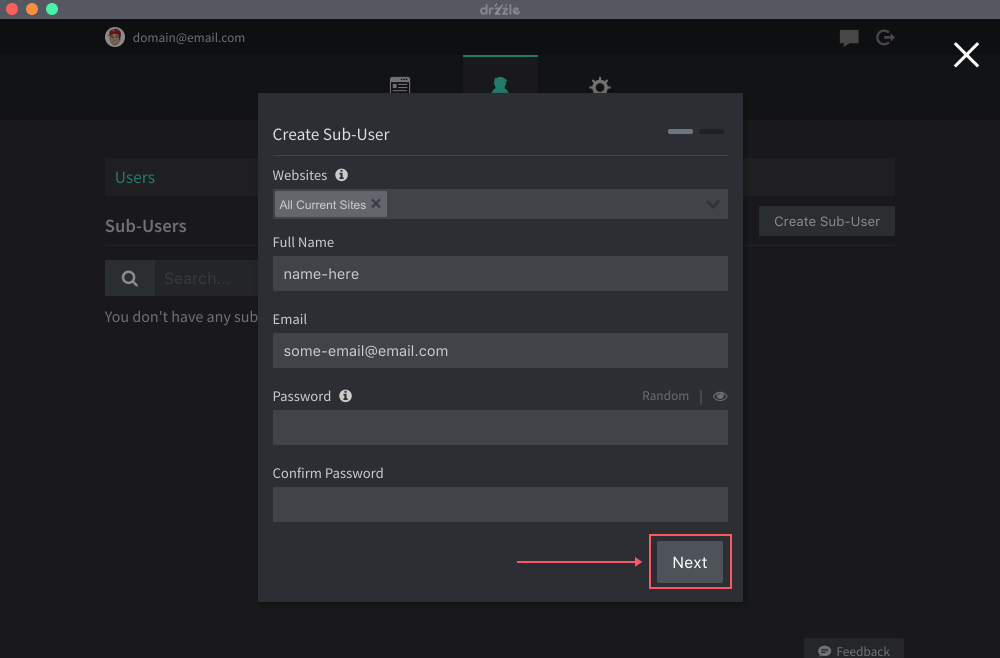
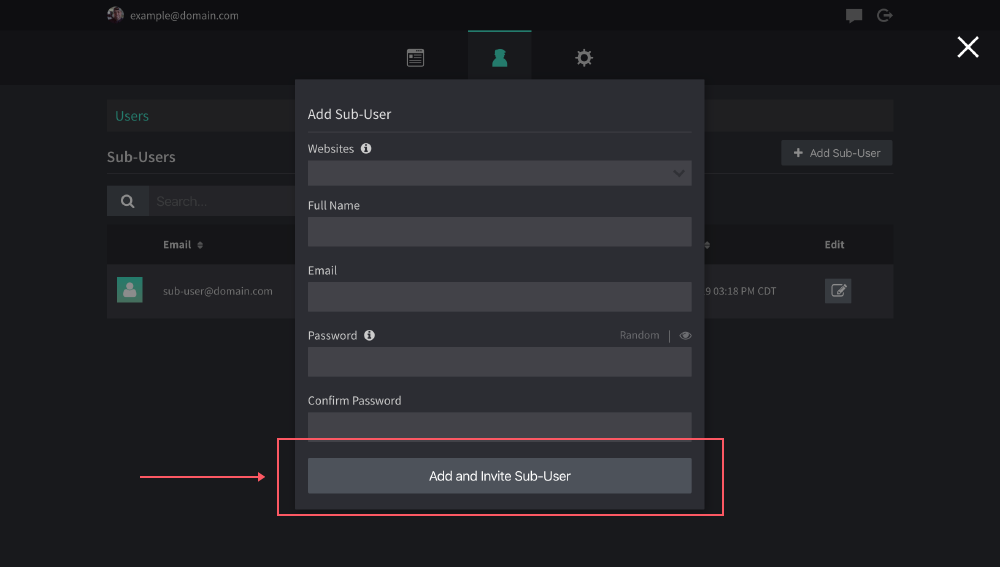
adding new docs for new features

diff --git a/docs/.vuepress/config.js b/docs/.vuepress/config.js
@@ -77,7 +77,7 @@ module.exports = {
       },
       {
         title: "Global Options",
-        children: ["/global/sitemap/", "/global/favicon/", "/global/fonts/"]
+        children: ["/global/sitemap/", "/global/favicon/", "/global/fonts/", "/global/colors/"]
       },
       {
         title: "Developers",

diff --git a/docs/websites/adding/README.md b/docs/websites/adding/README.md
@@ -12,13 +12,18 @@ Users are not limited to the amount of websites they can add. Adding a new websi
 
 ![Adding site step 3](./adding-site-step-2.png)
 
-4.  Select a boilerplate to start from them hit "next". The example only has 1 but there should be more options to choose from.
+4. Select the plan option for this site (free, starter or premium). You can read of the differences <a class="prev" href="https://drzzle.app/pricing/">here</a>.
 
 ![Adding site step 4](./adding-site-step-3.png)
 
-5.  Finally, you will see a confirmation message before you agree to proceed. The message will depend on if there is an additional charge or not. Your first site will always be free.
+5.  Select a boilerplate to start from then hit "next".
 
 ![Adding site step 5](./adding-site-step-4.png)
+
+6.  Finally, you will see a confirmation message before you agree to proceed. The message will depend on if there is an additional charge or not.
+
+![Adding site step 6](./adding-site-step-5.png)
+
 
 After this, you should launch right into the site's settings view. From there you can edit basic global settings and you can also launch the drag and drop site editor.
 

diff --git a/docs/sub-users/README.md b/docs/sub-users/README.md
@@ -2,8 +2,7 @@
 
 All account owners have the option to add additional sub-users under their account. The owner can pick
 and choose what website's to give these sub-users edit permissions to. They work great for delegating content
-editing to other people.
+editing to other people. Only website's using the premium plan are available to sub-users.
 
-When a sub-user logs in, they will only see the website's the owner has allowed them to edit. They will also have
-limited permissions for those website's. They will not be able to purchase anything for their website's, add new
-ones or delete them. They should only be allowed to edit _content_.
+When a sub-user logs in, they will only see the premium website's the owner has allowed them to edit. They will also have
+limited permissions for those website's. They will not be able to purchase anything, add new websites or delete current ones. They should only be allowed to edit _content_.

diff --git a/docs/sub-users/creating/README.md b/docs/sub-users/creating/README.md
@@ -8,13 +8,9 @@ Account owners are not limited to the amount of sub-users they can add. Adding a
 
 ![Adding user step 2](./adding-user-step-1.png)
 
-3.  Choose the websites you wish to give this user edit permissions to. Then enter their name, email and new password. The sub-user will have the ability to change their password later. Click "next" when done.
+3.  Choose the websites you wish to give this user edit permissions to. Then enter their name, email and new password. The sub-user will have the ability to change their password later. Click "Add and Invite Sub-User" when done.
 
 ![Adding user step 3](./adding-user-step-2.png)
-
-4.  Finally, you will see a confirmation message before can proceed. If you agree to the terms you can click "Agree and Create".
-
-![Adding user step 4](./adding-user-step-3.png)
 
 The sub-user will be emailed a confirmation code. They will need that the first time they login to the app.
 

diff --git a/docs/global/colors/README.md b/docs/global/colors/README.md
@@ -1,0 +1,19 @@
+# Color Palette
+
+## Overview
+You can add and remove colors to each site's palette using the global settings located in the top control bar of the page editor.
+
+![global colors option](./colors-overview.png)
+
+## Adding Colors
+1) Click on the "Colors" tab in the global options area.
+
+![global color step 1](./colors-step-1.png)
+
+2) Click "Add Color" and it should add a white box to your palette. You can then set that color to whatever you need to.
+
+![global color step 2](./colors-step-2.png)
+
+3) You can now use your saved color in any droplet or page color option like so.
+
+![global color step 3](./colors-step-3.png)
